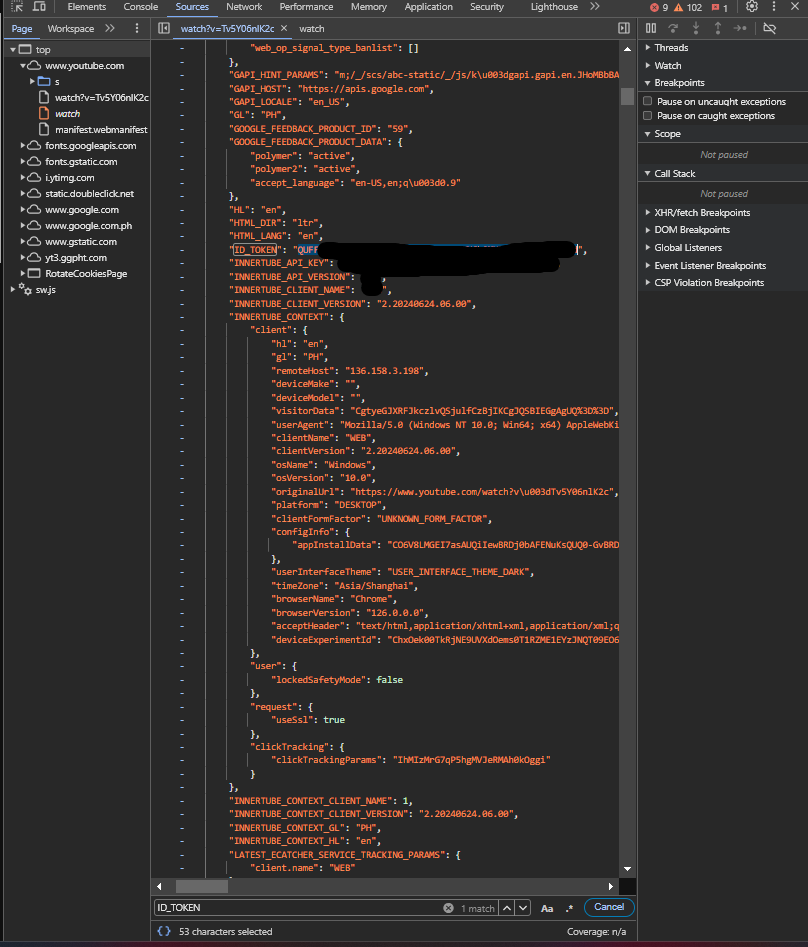
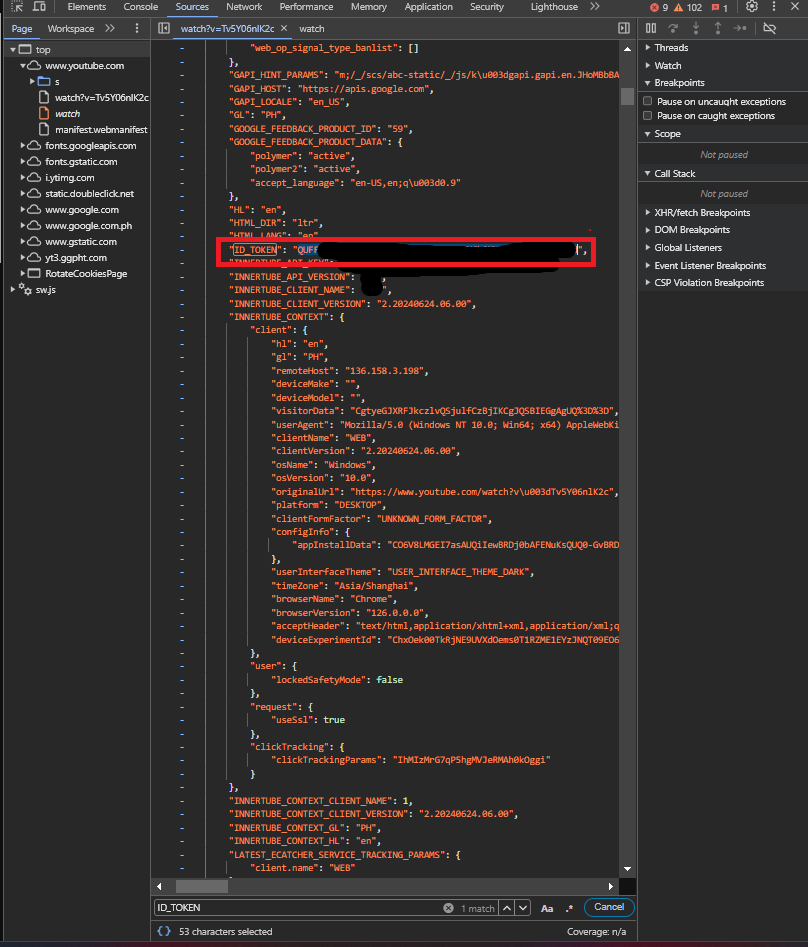
wiki

Changed region(s): [[0.2475, 0.245, 0.7426, 0.3062]]

diff --git a/COOKIE.md b/COOKIE.md
@@ -34,3 +34,13 @@
 ![cookie](https://raw.githubusercontent.com/merasugd/yt-playlist-downloader/main/wiki/youtube_token.png)
 
 # How to get YouTube Identity Token
+
+## Step 1
+- Open sources tab and click whats pointed.
+- Then click CTRL and F in your keyboard
+- A search bar will show up and put there "ID_TOKEN"
+
+![step1](https://raw.githubusercontent.com/merasugd/yt-playlist-downloader/main/wiki/step7.png)
+
+## You got your YouTube Identity Token
+1[token]()
